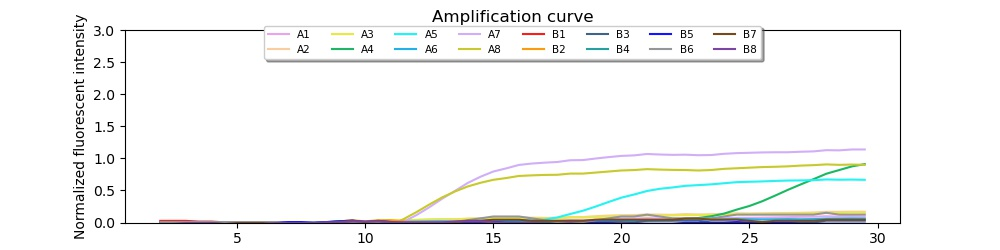
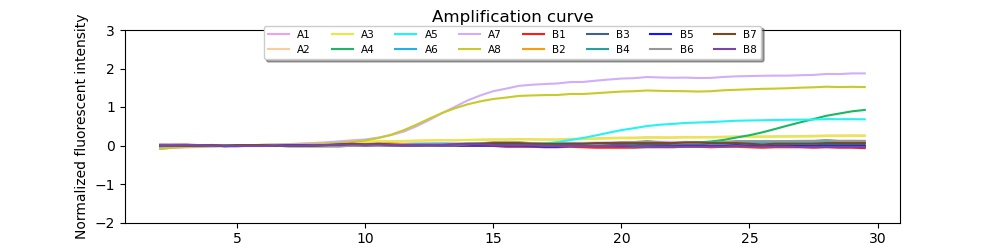
edit CT_Display..

diff --git a/CT_Display_General.py b/CT_Display_General.py
@@ -24,7 +24,10 @@ class Ui_MainWindow(QtWidgets.QWidget):
     def browsefile(self):
         if not os.path.isdir('./result'):
             print("Directory 'result' does not exist.")
-            os.mkdir('./result')
+        if not os.path.isdir('./result/Cali_result/'):
+            os.mkdir('./result/Cali_result/')
+        if not os.path.isdir('./result/Display_result/'):
+            os.mkdir('./result/Display_result/')
         if self.Start_time.text() == "" or self.End_time.text() == "" or self.Input_N.text() == "":
             QtWidgets.QMessageBox.critical(self, u"警告", u"請輸入Time of background", buttons=QtWidgets.QMessageBox.Ok, defaultButton=QtWidgets.QMessageBox.Ok)
         elif (int(self.Start_time.text()) > int(self.End_time.text())):
@@ -133,7 +136,7 @@ class Ui_MainWindow(QtWidgets.QWidget):
         plt.plot(self.time_array, self.B6_data, '-', color=colorTab_More4[13], label="B6")  # 靛
         plt.plot(self.time_array, self.B7_data, '-', color=colorTab_More4[14], label="B7")  # 紫
         plt.plot(self.time_array, self.B8_data, '-', color=colorTab_More4[15], label="B8")  # 黑
-        plt.ylim(0, 3)
+        plt.ylim(-1, 3)
         plt.title("Amplification curve")
         plt.xlabel('Time (min)')  # x軸說明文字
         plt.ylabel('Normalized fluorescent intensity')  # y軸說明文字
